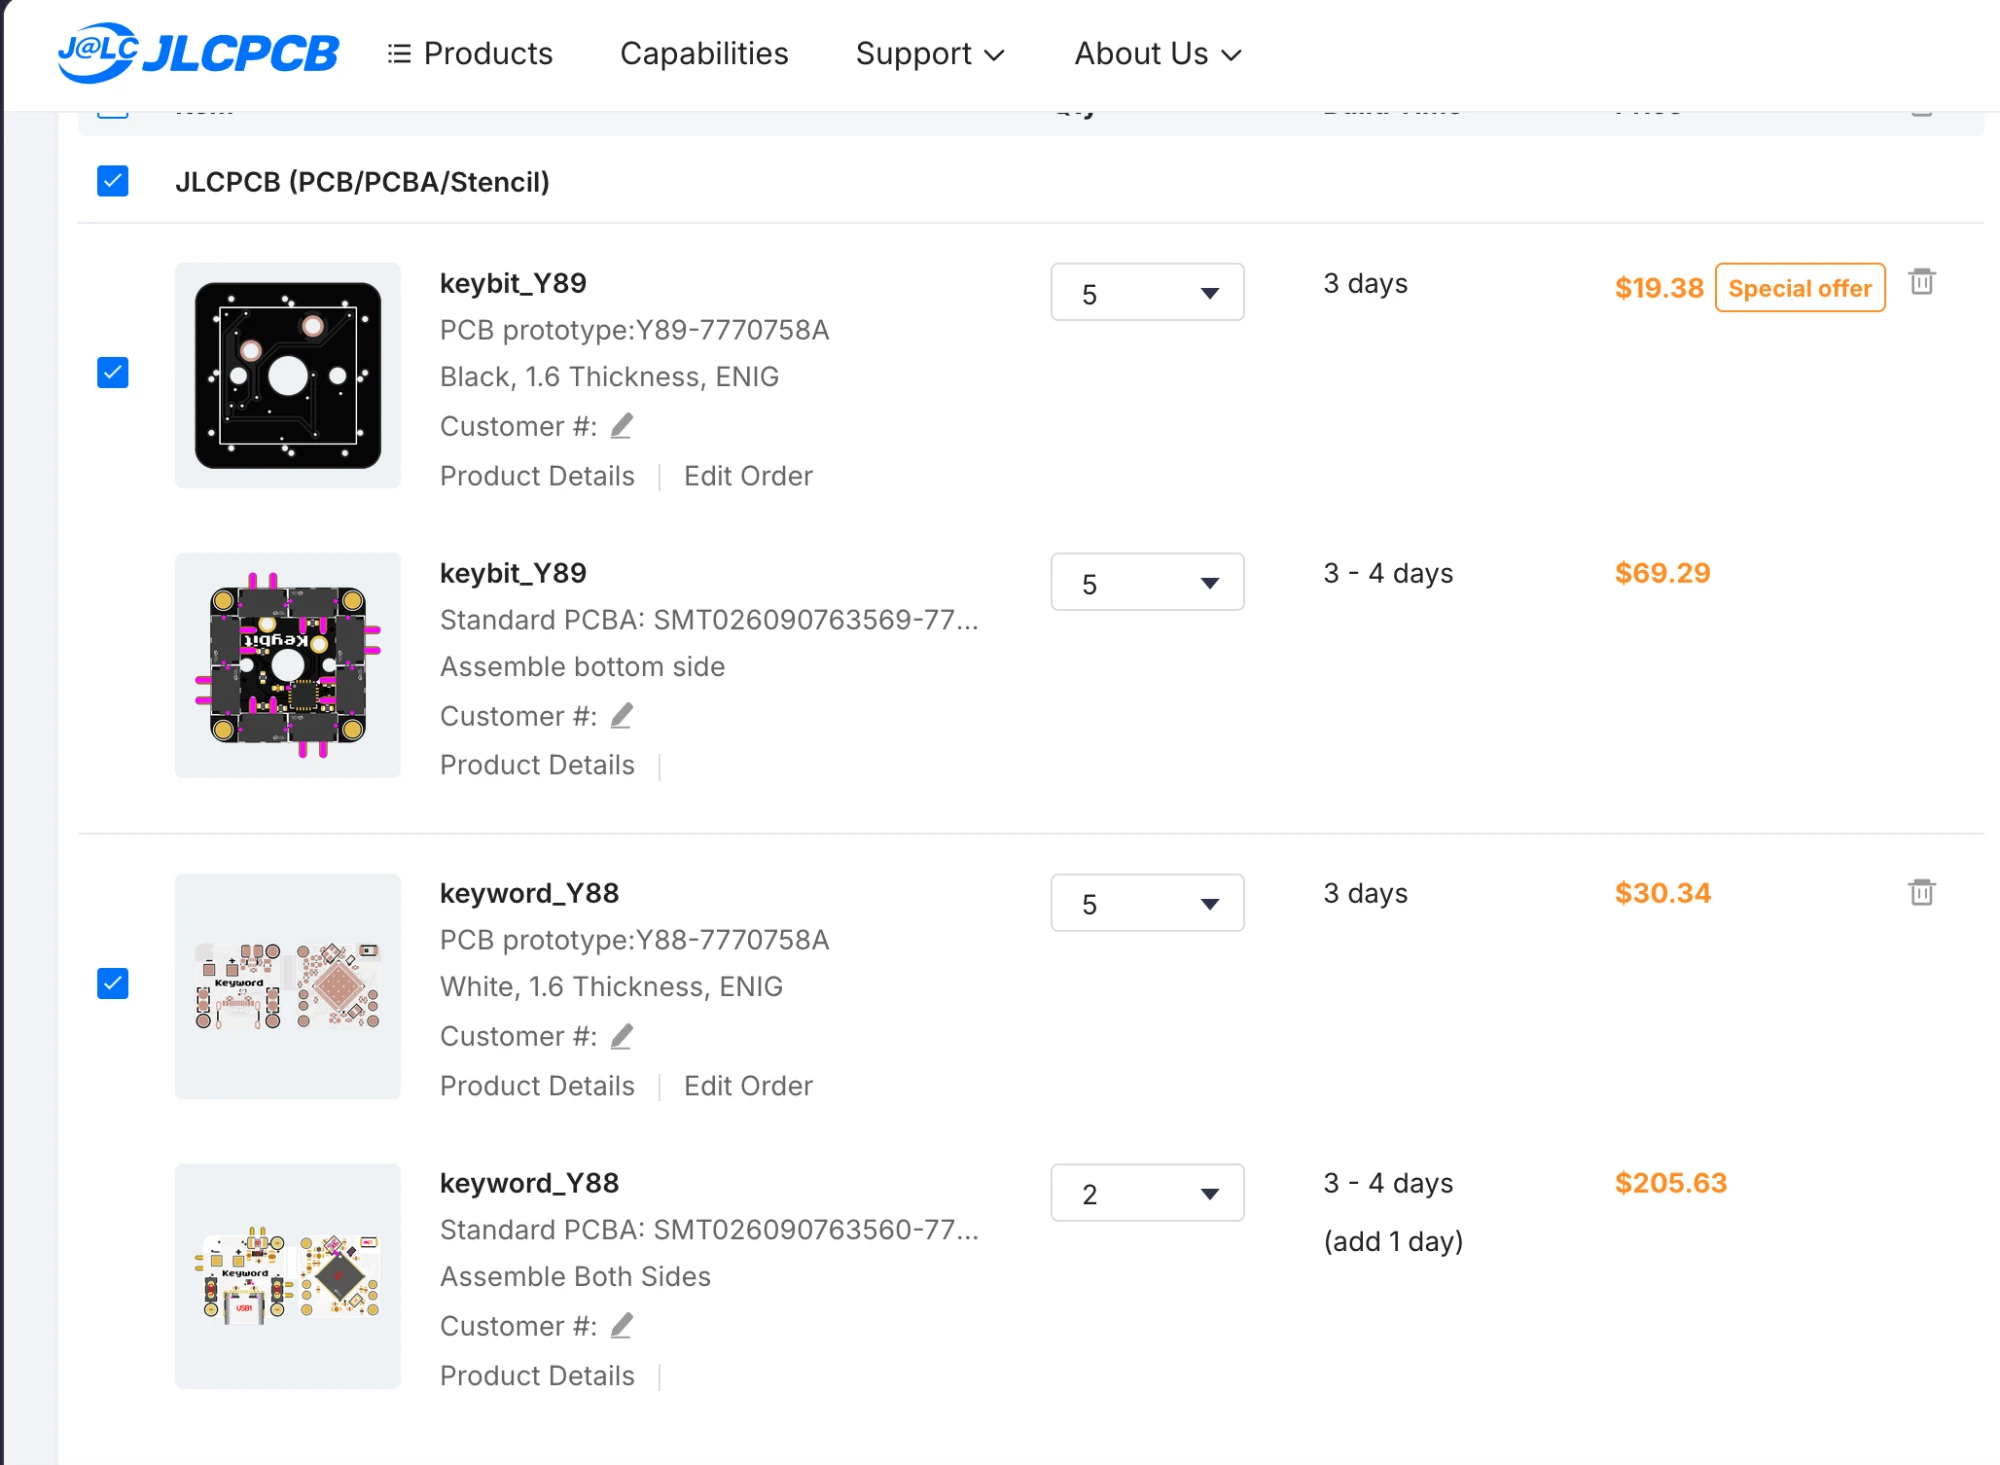
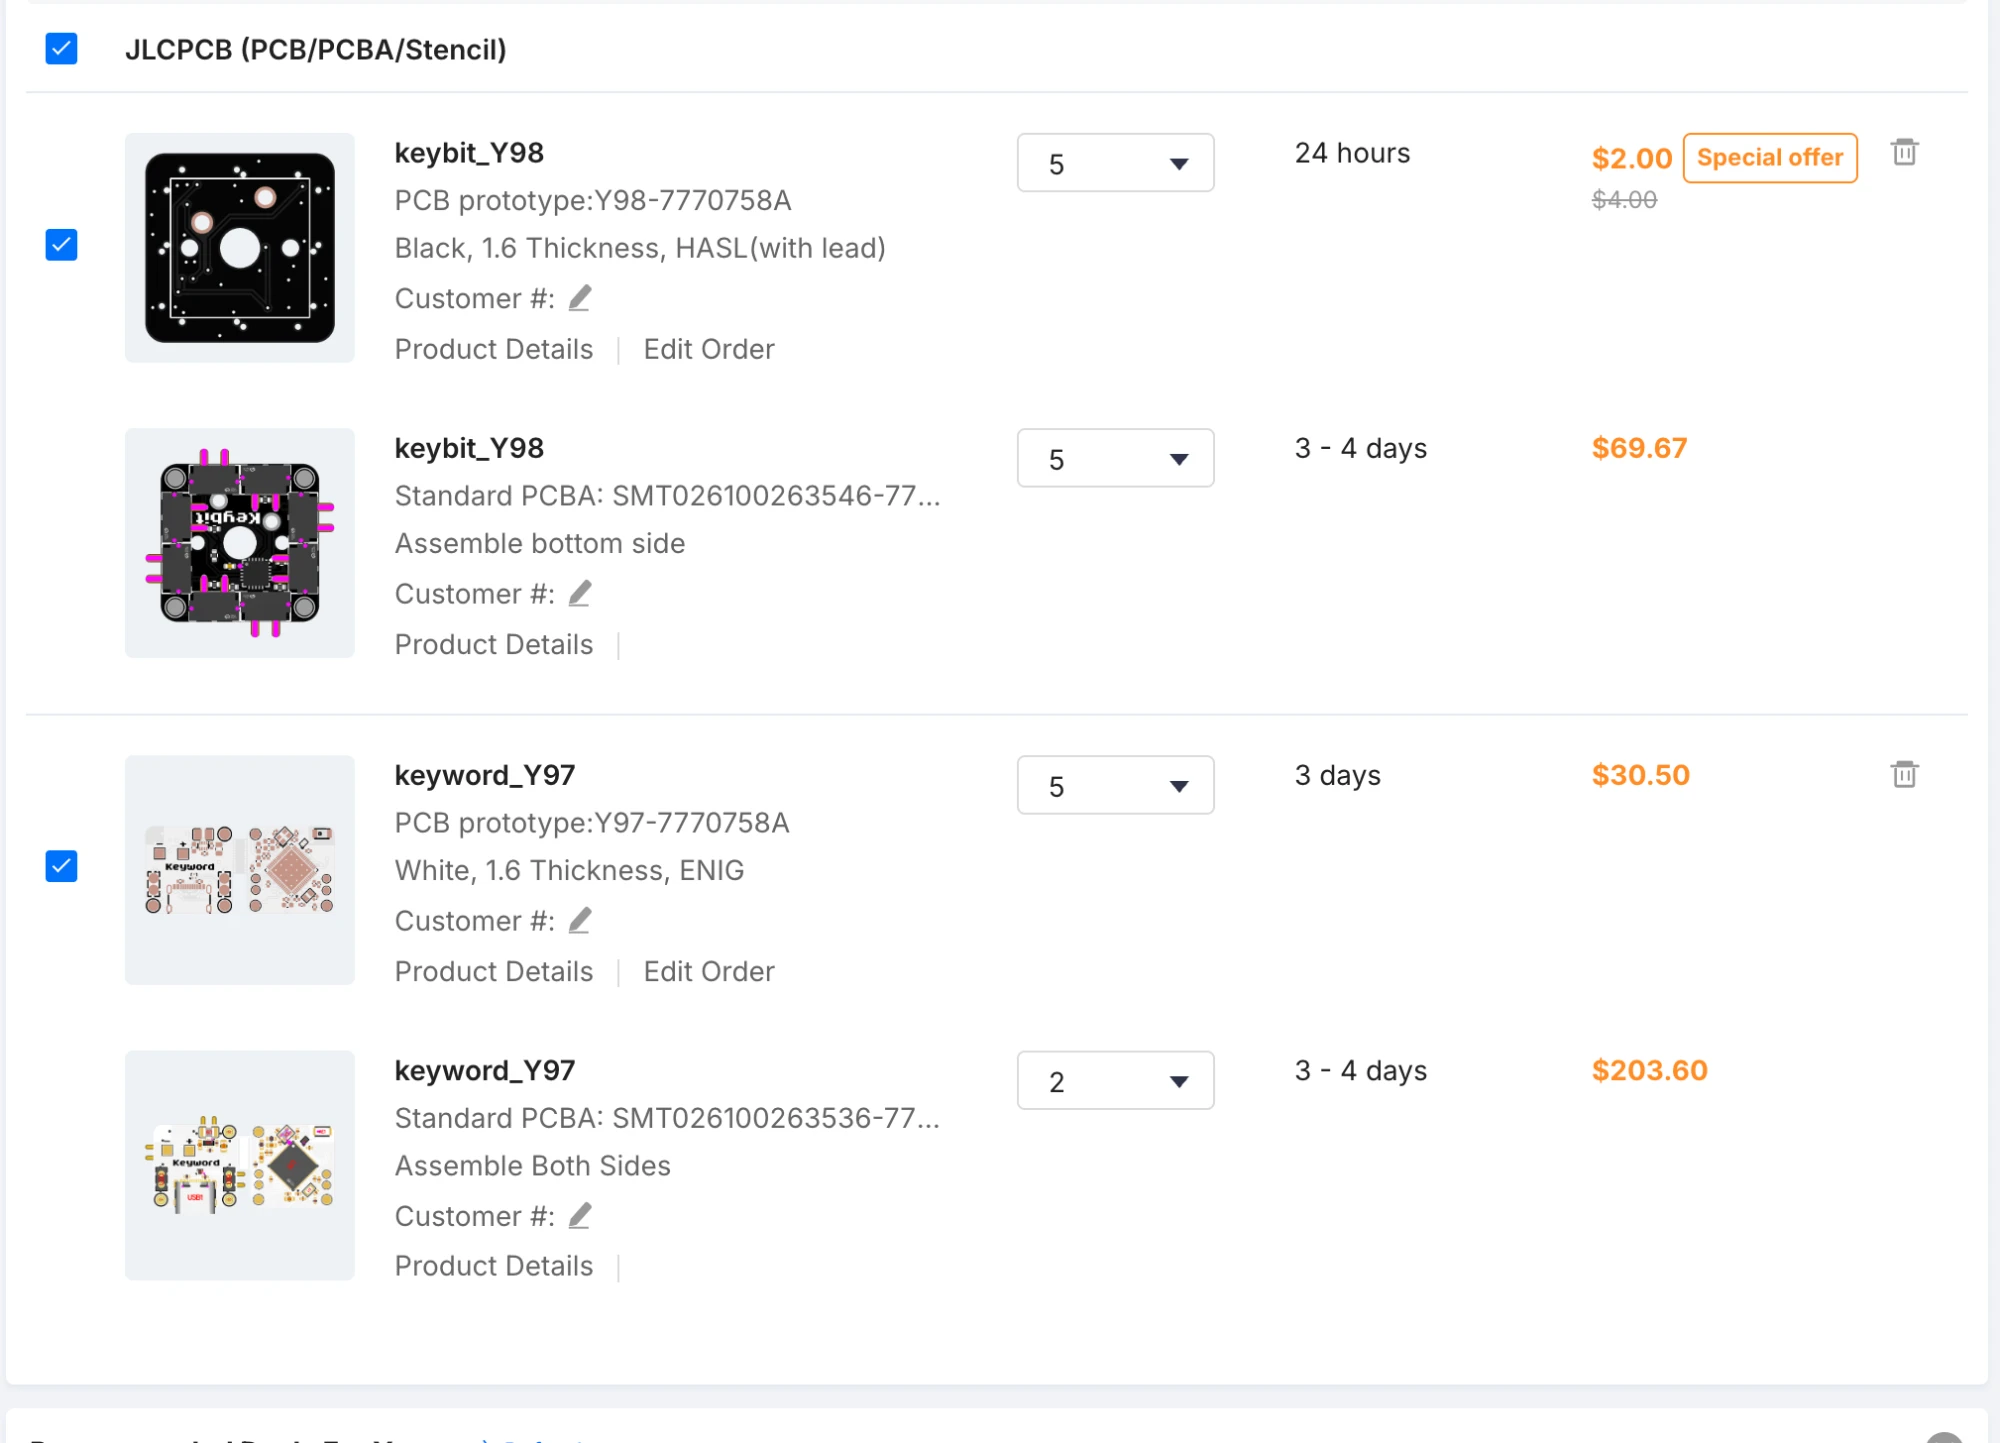
fixes

diff --git a/JOURNAL.md b/JOURNAL.md
@@ -16,12 +16,12 @@ the biggest one was on the keybit, one of the pogo header GND pads wasnt connect
 
 on the keyword a bunch of the resistors all had the same lcsc number which was a 150 ohm resistor with 0 stock so jlc would have put the wrong values on the charger so i cleared those, and the pads that the pogo pins land on were in the bom as pogo pins so I set them to dnp
 
+![image](assets/journal/keyword_fixed_top.png)
+
+![image](assets/journal/keyword_fixed_bottom.png)
+
 I also fixed all the library and 3d model paths since they were hardcoded to my windows pc and didnt work on the mac, now they are relative to the project. Then I added the jlcpcb order and shipping to the bom
 
-![image](assets/journal/jlcpcb_order.png)
-
-![image](assets/journal/keybit_fixed_bottom.png)
-![image](assets/journal/keybit_fixed_top.png)
 ![image](assets/journal/jlcpcb_order.png)
 
 # 6/18/2026 8 PM - Finish CAD
@@ -32,46 +32,31 @@ So i did a thing with clay and finished the case andx yea, this took a long time
 
 ![image](assets/journal/1781815993601-r86dm5.png)
 
-![image](assets/journal/1781815993601-r86dm5.png)
-
 # 4/10/2026 3 AM - More Cad and finished Keybit Case
 
 _Time spent: 7h_
 
 So after messing around with a few designs in onshape, I got a better Keycap design
 
-
 ![image](assets/journal/1775792561658-u0t4fh.png)
-
 
 there are internal holes for the magnets and the thing latches on to the key switches side latches as shown here
 
-
 ![image](assets/journal/1775792667844-tdun0b.png)
 
-
 ![image](assets/journal/1775792934823-axlxi9.png)
-
 
 i then printed it out and did a thing and got this
 
-
 ![image](assets/journal/1775793071456-4ktbyd.png)
-
 
 and yea thats basically it, Ill plan on continuing the cad for the main pcb and make it cleaner
-
-![image](assets/journal/1775792561658-u0t4fh.png)
-![image](assets/journal/1775792667844-tdun0b.png)
-![image](assets/journal/1775792934823-axlxi9.png)
-![image](assets/journal/1775793071456-4ktbyd.png)
 
 # 4/8/2026 12 AM - CAD + Case
 
 _Time spent: 7h_
 
 Idk how to cad but I tried to do it and ended with soemthing like this:
-
 
 ![image](assets/journal/1775447209619-5e1ha0.png)
 
@@ -81,20 +66,13 @@ which got printed and it kinda works but the corners are too small and yea
 
 I printed a few out and showed them to clay and he liked them and yea, altho its thin I plan on making the walls thicker and yea, aside from that I think its pretty much done
 
-![image](assets/journal/1775447209619-5e1ha0.png)
-![image](assets/journal/1775447251699-e0oyw0.png)
-
 # 4/6/2026 3 AM - Flash and LED and Touchups
 
 _Time spent: 7h_
 
 So I kinda want to be able to program the CH300v chips from the main board so I needed to add in some pogo pins and then I would also need flash to store the code so I added that in and updated the STM32 MX for that
 
-
 ![image](assets/journal/1775419082878-wwvq7s.png)
-
-
-
 
 Then after that I finished routing up everything and also replaced the old LED with a RGB one.
 
@@ -102,18 +80,10 @@ Then after that I finished routing up everything and also replaced the old LED w
 
 ![image](assets/journal/1775426579651-lg5zme.png)
 
-
 Then I updated the schematics to look better and yea
 
 ![image](assets/journal/1775426460134-qt999o.png)
 
-
-![image](assets/journal/1775426515419-d7ntz6.png)
-
-![image](assets/journal/1775419082878-wwvq7s.png)
-![image](assets/journal/1775426542816-taq9ky.png)
-![image](assets/journal/1775426579651-lg5zme.png)
-![image](assets/journal/1775426460134-qt999o.png)
 ![image](assets/journal/1775426515419-d7ntz6.png)
 
 # 4/5/2026 7 PM - Routing
@@ -122,18 +92,13 @@ _Time spent: 7h_
 
 So I locked in for a day and finished up the routing for both PCB's. I also had to add in some I2C pullup resistors and had fun with laying them out on both sides and yea
 
-
 ![image](assets/journal/1775347277075-v4u04k.png)
 
 I also did the same for the keybit and ended up with this
 
-
 ![image](assets/journal/1775416826793-5lrrwe.png)
 
 it took me a while as I forgot that I had to add in pullup resistors and then had to move things around to add space for them
-
-![image](assets/journal/1775347277075-v4u04k.png)
-![image](assets/journal/1775416826793-5lrrwe.png)
 
 # 4/5/2026 12 AM - Keyword and Routing
 
@@ -141,18 +106,10 @@ _Time spent: 7h_
 
 So I had a bunch of back and forth between the 2 different STM32 chips, I oringlaly planned on having eherythign on one boar dbut with bluetooht then that would be way complicated so I decided to go on St's website to try and find any stm32s that would support bluetooth and I found a small one bue that meant using a usb to hid converter but the smallest one I could find would take up half the board so I decided to split the boards, and in doing so I rediecided that if I was going to have more area, I might as well have a bigger stm32 chip and just add more stuff to it so I did that and ended up with this:
 
-
 ![image](assets/journal/1774761472182-pa7dar.png)
 
 I was still placing the components so I decided to do that some more and got this
 
-
-
-
-
-![image](assets/journal/1775347199014-2i36z5.png)
-
-![image](assets/journal/1774761472182-pa7dar.png)
 ![image](assets/journal/1775347199014-2i36z5.png)
 
 # 3/27/2026 2 AM - Ideation and Schematic
@@ -169,15 +126,9 @@ I decided on using a cheap risc-v processor and i2c to communicate between the k
 
 I started on the keybit design (ha ha) and got this:
 
-
-
 ![image](assets/journal/1774578078192-fmrf1k.png)
 
 I then also started on the other design for the keyword
 
-
-
 ![image](assets/journal/1774578096201-ez05dt.png)
 
-![image](assets/journal/1774578078192-fmrf1k.png)
-![image](assets/journal/1774578096201-ez05dt.png)
